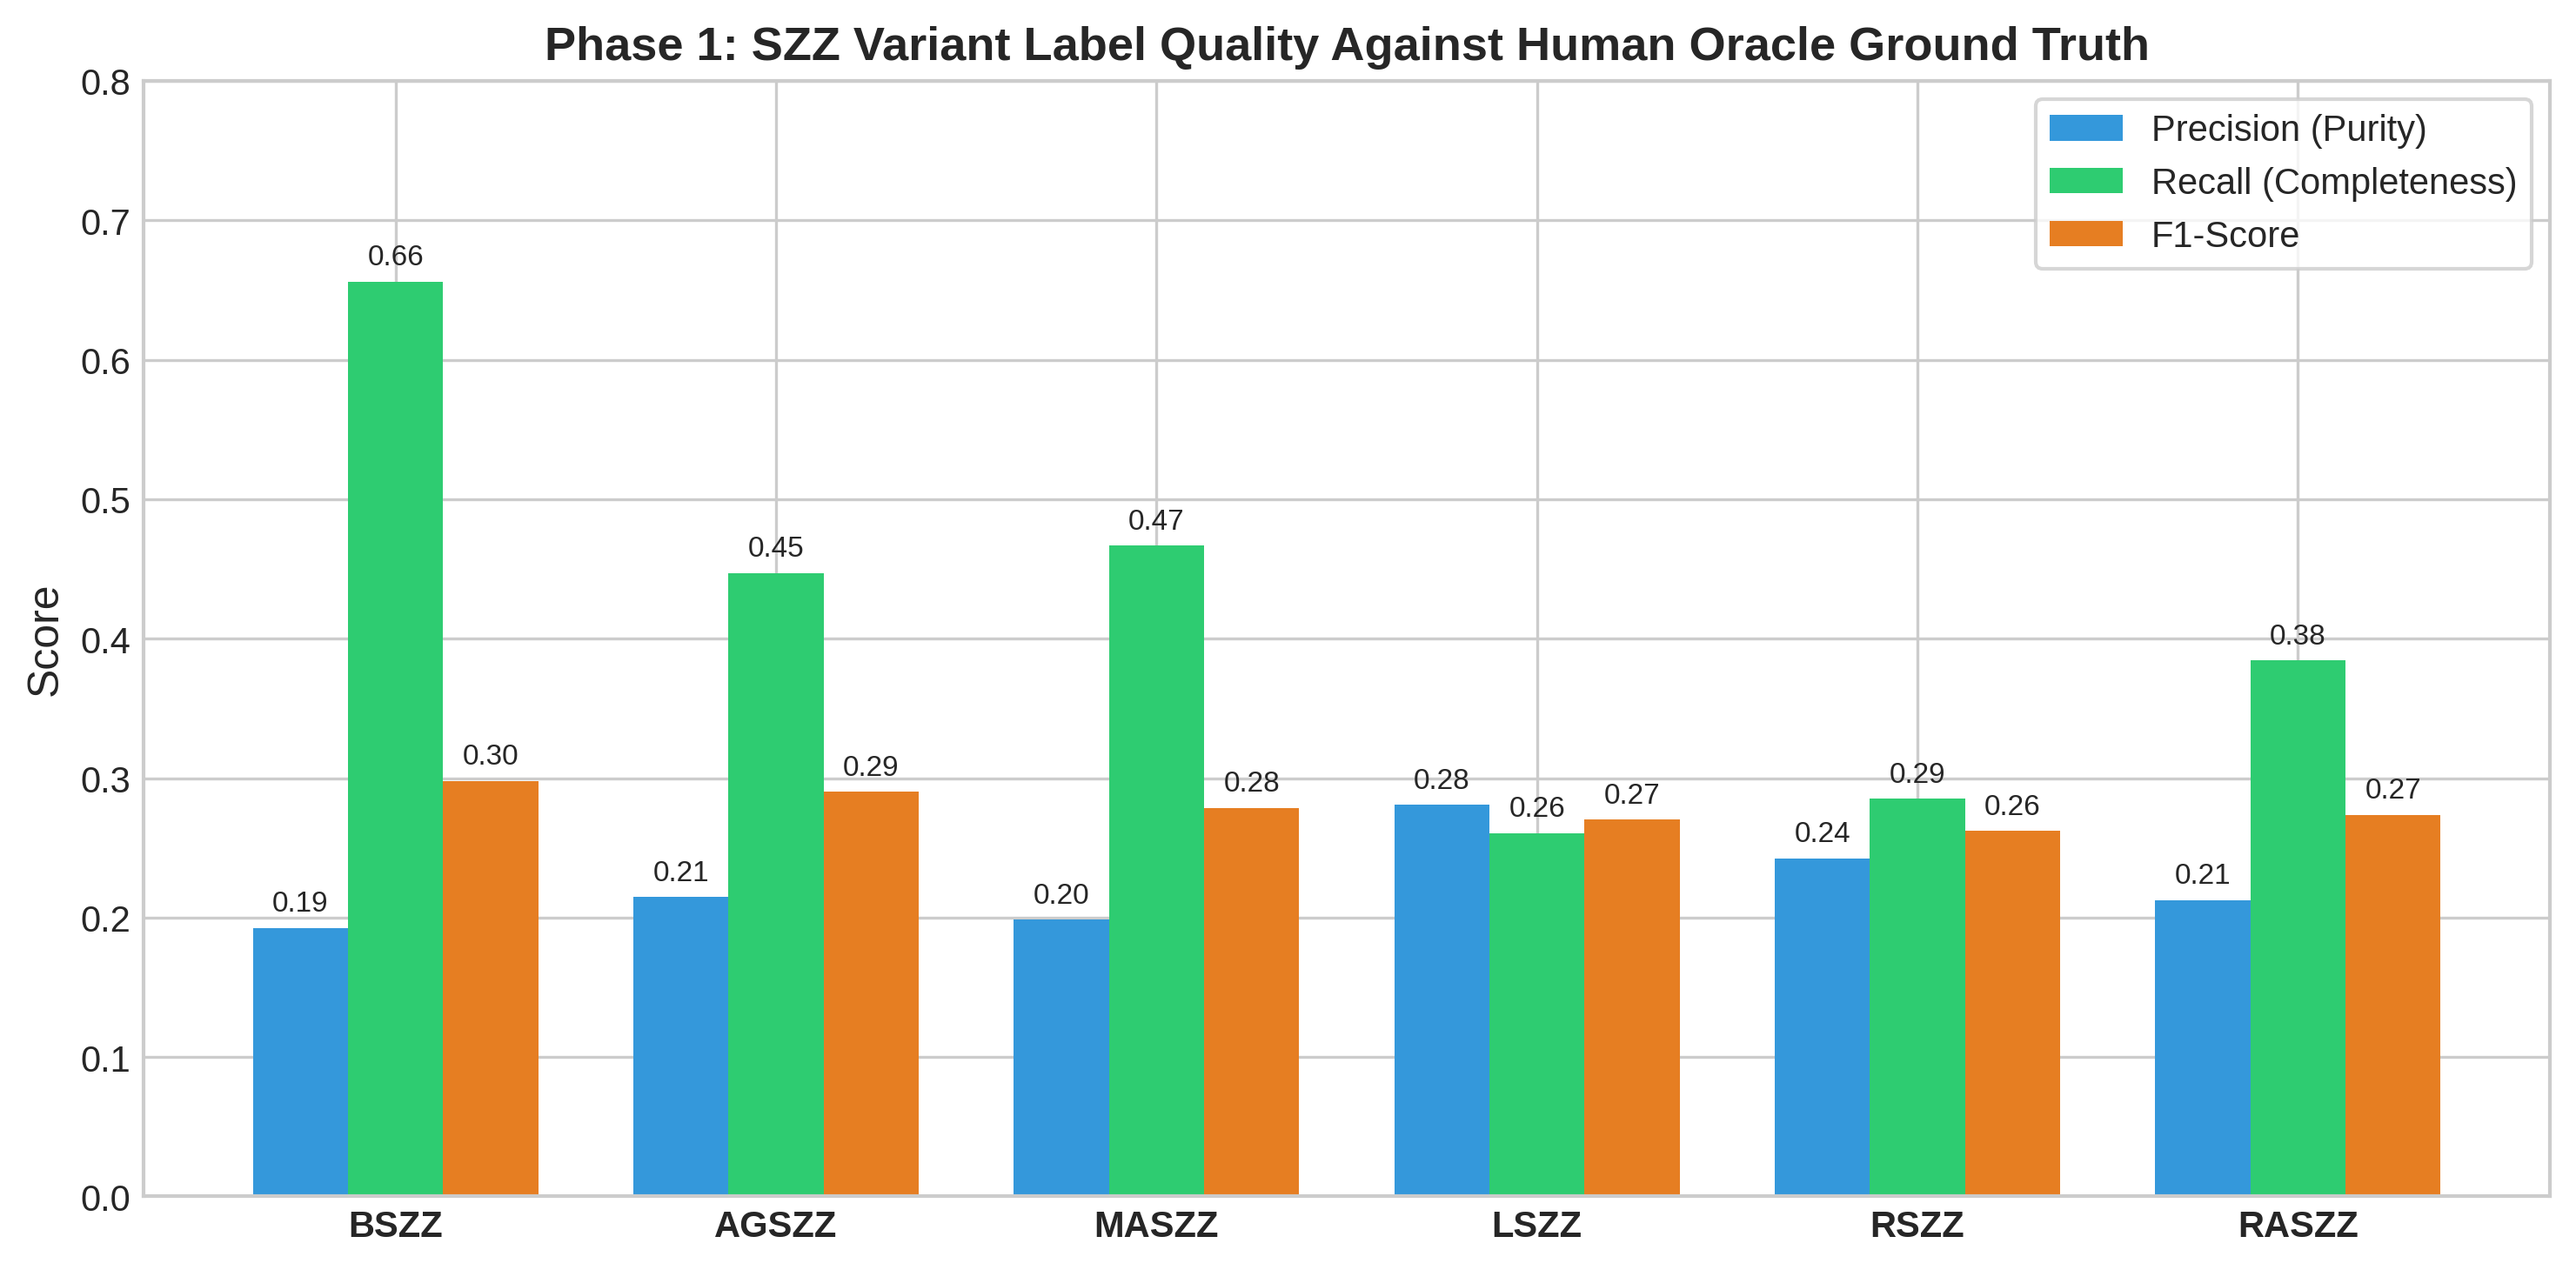
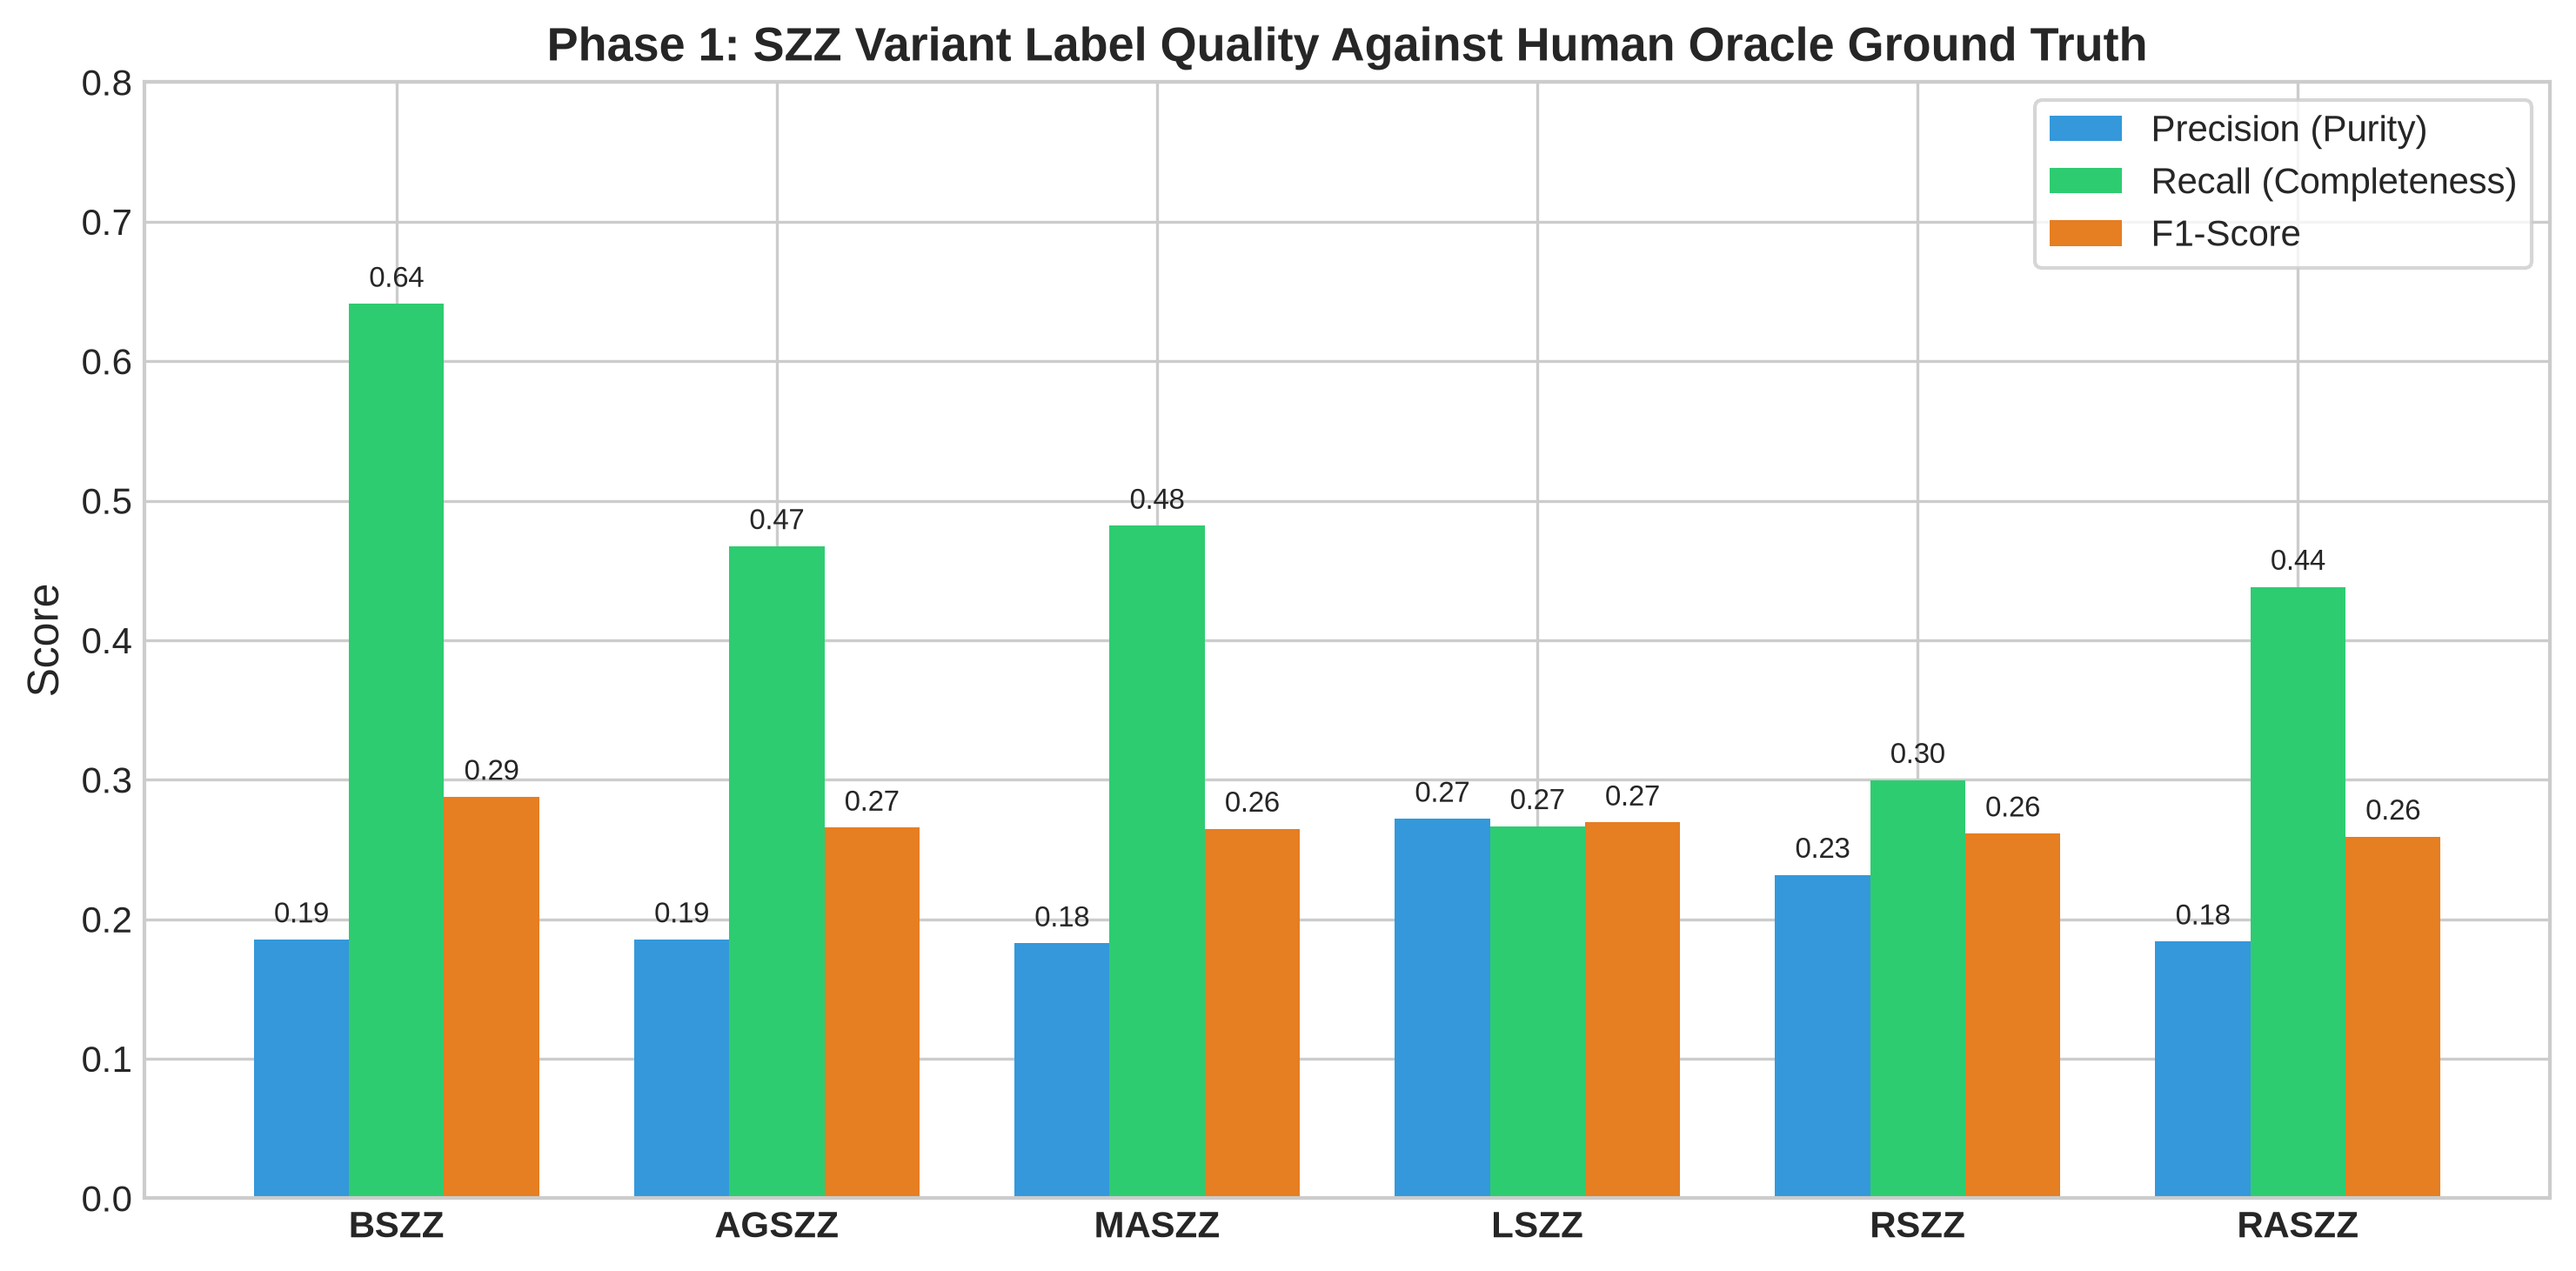
Fix phase1_bias key lookup in generate_report.py and regenerate report figures

diff --git a/reports/phase1_phase2_report.html b/reports/phase1_phase2_report.html
@@ -236,63 +236,63 @@
             <tbody>
                 <tr>
                     <td><strong>BSZZ</strong></td>
-                    <td>0.1927</td>
-                    <td>0.6561</td>
-                    <td>0.2979</td>
-                    <td>0.2666</td>
-                    <td>0.3439</td>
-                    <td>0.1867</td>
-                    <td>0.2411</td>
+                    <td>0.1855</td>
+                    <td>0.6411</td>
+                    <td>0.2877</td>
+                    <td>0.2627</td>
+                    <td>0.3589</td>
+                    <td>0.1790</td>
+                    <td>0.2318</td>
                 </tr>
                 <tr>
                     <td><strong>AGSZZ</strong></td>
-                    <td>0.2148</td>
-                    <td>0.4472</td>
-                    <td>0.2902</td>
-                    <td>0.1585</td>
-                    <td>0.5528</td>
-                    <td>0.1939</td>
-                    <td>0.2115</td>
+                    <td>0.1855</td>
+                    <td>0.4674</td>
+                    <td>0.2656</td>
+                    <td>0.1915</td>
+                    <td>0.5326</td>
+                    <td>0.1633</td>
+                    <td>0.1876</td>
                 </tr>
                 <tr>
                     <td><strong>MASZZ</strong></td>
-                    <td>0.1986</td>
-                    <td>0.4669</td>
-                    <td>0.2786</td>
-                    <td>0.1730</td>
-                    <td>0.5331</td>
-                    <td>0.1821</td>
-                    <td>0.2048</td>
+                    <td>0.1826</td>
+                    <td>0.4820</td>
+                    <td>0.2649</td>
+                    <td>0.2013</td>
+                    <td>0.5180</td>
+                    <td>0.1610</td>
+                    <td>0.1877</td>
                 </tr>
                 <tr>
                     <td><strong>LSZZ</strong></td>
-                    <td>0.2808</td>
-                    <td>0.2607</td>
-                    <td>0.2703</td>
-                    <td>0.0613</td>
-                    <td>0.7393</td>
-                    <td>0.2061</td>
-                    <td>0.2062</td>
+                    <td>0.2720</td>
+                    <td>0.2667</td>
+                    <td>0.2693</td>
+                    <td>0.0666</td>
+                    <td>0.7333</td>
+                    <td>0.2019</td>
+                    <td>0.2019</td>
                 </tr>
                 <tr>
                     <td><strong>RSZZ</strong></td>
-                    <td>0.2423</td>
-                    <td>0.2851</td>
-                    <td>0.2620</td>
-                    <td>0.0818</td>
-                    <td>0.7149</td>
-                    <td>0.1882</td>
-                    <td>0.1889</td>
+                    <td>0.2318</td>
+                    <td>0.2997</td>
+                    <td>0.2615</td>
+                    <td>0.0927</td>
+                    <td>0.7003</td>
+                    <td>0.1828</td>
+                    <td>0.1846</td>
                 </tr>
                 <tr>
                     <td><strong>RASZZ</strong></td>
-                    <td>0.2124</td>
-                    <td>0.3845</td>
-                    <td>0.2736</td>
-                    <td>0.1309</td>
-                    <td>0.6155</td>
-                    <td>0.1854</td>
-                    <td>0.1959</td>
+                    <td>0.1840</td>
+                    <td>0.4383</td>
+                    <td>0.2592</td>
+                    <td>0.1813</td>
+                    <td>0.5617</td>
+                    <td>0.1580</td>
+                    <td>0.1784</td>
                 </tr>
             </tbody>
         </table>

diff --git a/scripts/generate_report.py b/scripts/generate_report.py
@@ -74,18 +74,17 @@ def generate_phase1_figures(df_commits, phase1_bias):
     
     rows = []
     for var, stats in phase1_bias.items():
-        tp = stats['TP']
-        fp = stats['FP']
-        fn = stats['FN']
-        tn = stats['TN']
-        prec = stats['Precision']
-        rec = stats['Recall']
-        f1 = stats['F1']
-        fpr = fp / (fp + tn) if (fp + tn) > 0 else 0
-        fnr = fn / (fn + tp) if (fn + tp) > 0 else 0
-        denom = np.sqrt((tp + fp) * (tp + fn) * (tn + fp) * (tn + fn))
-        mcc = (tp * tn - fp * fn) / denom if denom > 0 else 0
-        kappa = 2 * (tp * tn - fp * fn) / ((tp + fp) * (fp + tn) + (tp + fn) * (fn + tn)) if ((tp + fp) * (fp + tn) + (tp + fn) * (fn + tn)) > 0 else 0
+        tp = stats.get('TP', 0)
+        fp = stats.get('FP', 0)
+        fn = stats.get('FN', 0)
+        tn = stats.get('TN', 0)
+        prec = stats.get('precision', stats.get('Precision', 0.0))
+        rec = stats.get('recall', stats.get('Recall', 0.0))
+        f1 = stats.get('f1', stats.get('F1', 0.0))
+        fpr = stats.get('fp_rate', stats.get('FPR', (fp / (fp + tn) if (fp + tn) > 0 else 0)))
+        fnr = stats.get('fn_rate', stats.get('FNR', (fn / (fn + tp) if (fn + tp) > 0 else 0)))
+        mcc = stats.get('mcc', stats.get('MCC', 0.0))
+        kappa = stats.get('kappa', stats.get('Kappa', 0.0))
         rows.append({
             "Variant": var,
             "Precision": prec,

diff --git a/reports/phase1_phase2_report.md b/reports/phase1_phase2_report.md
@@ -27,12 +27,12 @@ Phase 1 benchmarks 6 modern SZZ variants (`BSZZ`, `AGSZZ`, `MASZZ`, `LSZZ`, `RSZ
 
 | SZZ Variant | Precision | Recall | F1-Score | FPR ($\rho_0$) | FNR ($\rho_1$) | Cohen's $\kappa$ | Matthews Corr. (MCC) | True Pos (TP) | False Pos (FP) | False Neg (FN) | True Neg (TN) |
 | :--- | :---: | :---: | :---: | :---: | :---: | :---: | :---: | :---: | :---: | :---: | :---: |
-| **BSZZ** | 0.1927 | 0.6561 | 0.2979 | 0.2666 | 0.3439 | 0.1867 | 0.2411 | 1,410 | 5,908 | 739 | 16,256 |
-| **AGSZZ** | 0.2148 | 0.4472 | 0.2902 | 0.1585 | 0.5528 | 0.1939 | 0.2115 | 961 | 3,513 | 1,188 | 18,651 |
-| **MASZZ** | 0.1986 | 0.4669 | 0.2786 | 0.1730 | 0.5331 | 0.1821 | 0.2048 | 1,071 | 4,323 | 1,223 | 20,664 |
-| **LSZZ** | 0.2808 | 0.2607 | 0.2703 | 0.0613 | 0.7393 | 0.2061 | 0.2062 | 598 | 1,532 | 1,696 | 23,455 |
-| **RSZZ** | 0.2423 | 0.2851 | 0.2620 | 0.0818 | 0.7149 | 0.1882 | 0.1889 | 654 | 2,045 | 1,640 | 22,942 |
-| **RASZZ** | 0.2124 | 0.3845 | 0.2736 | 0.1309 | 0.6155 | 0.1854 | 0.1959 | 882 | 3,271 | 1,412 | 21,716 |
+| **BSZZ** | 0.1855 | 0.6411 | 0.2877 | 0.2627 | 0.3589 | 0.1790 | 0.2318 | 1,495 | 6,565 | 837 | 18,422 |
+| **AGSZZ** | 0.1855 | 0.4674 | 0.2656 | 0.1915 | 0.5326 | 0.1633 | 0.1876 | 1,090 | 4,786 | 1,242 | 20,201 |
+| **MASZZ** | 0.1826 | 0.4820 | 0.2649 | 0.2013 | 0.5180 | 0.1610 | 0.1877 | 1,124 | 5,030 | 1,208 | 19,957 |
+| **LSZZ** | 0.2720 | 0.2667 | 0.2693 | 0.0666 | 0.7333 | 0.2019 | 0.2019 | 622 | 1,665 | 1,710 | 23,322 |
+| **RSZZ** | 0.2318 | 0.2997 | 0.2615 | 0.0927 | 0.7003 | 0.1828 | 0.1846 | 699 | 2,316 | 1,633 | 22,671 |
+| **RASZZ** | 0.1840 | 0.4383 | 0.2592 | 0.1813 | 0.5617 | 0.1580 | 0.1784 | 1,022 | 4,531 | 1,310 | 20,456 |
 
 ### Phase 1 Visualizations
 
